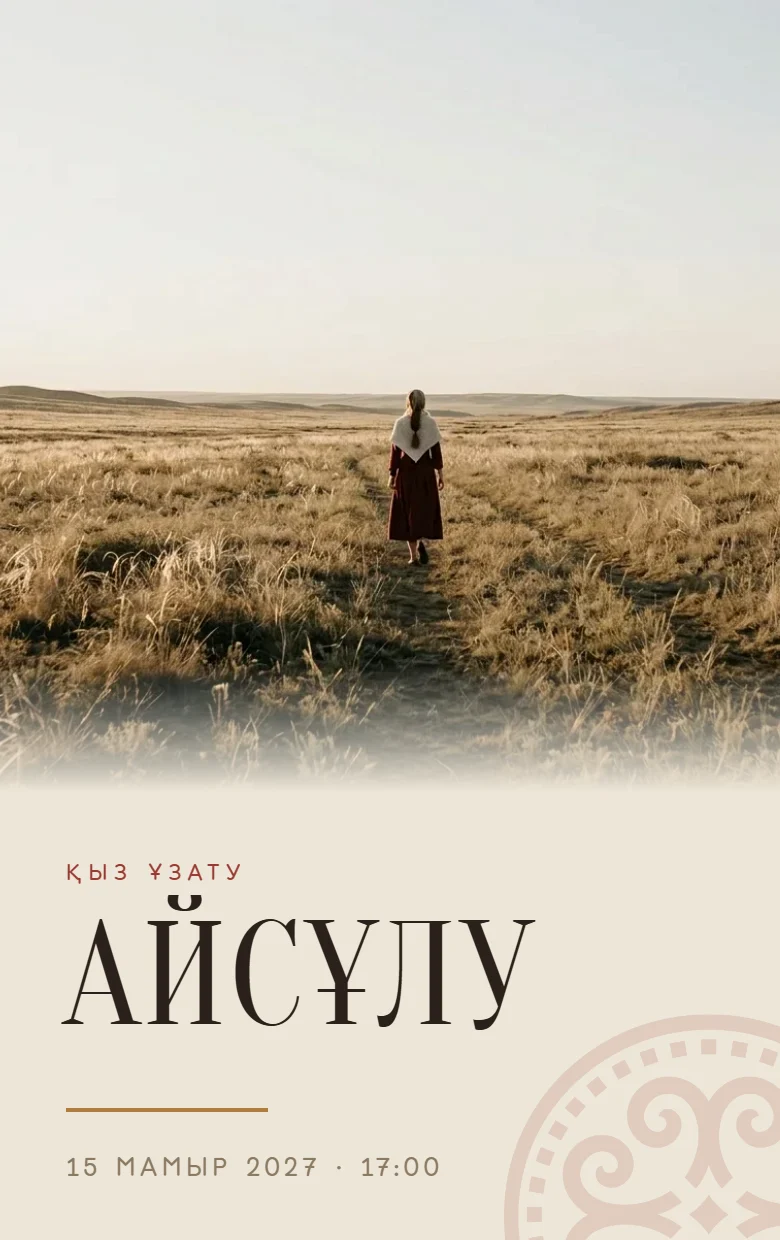
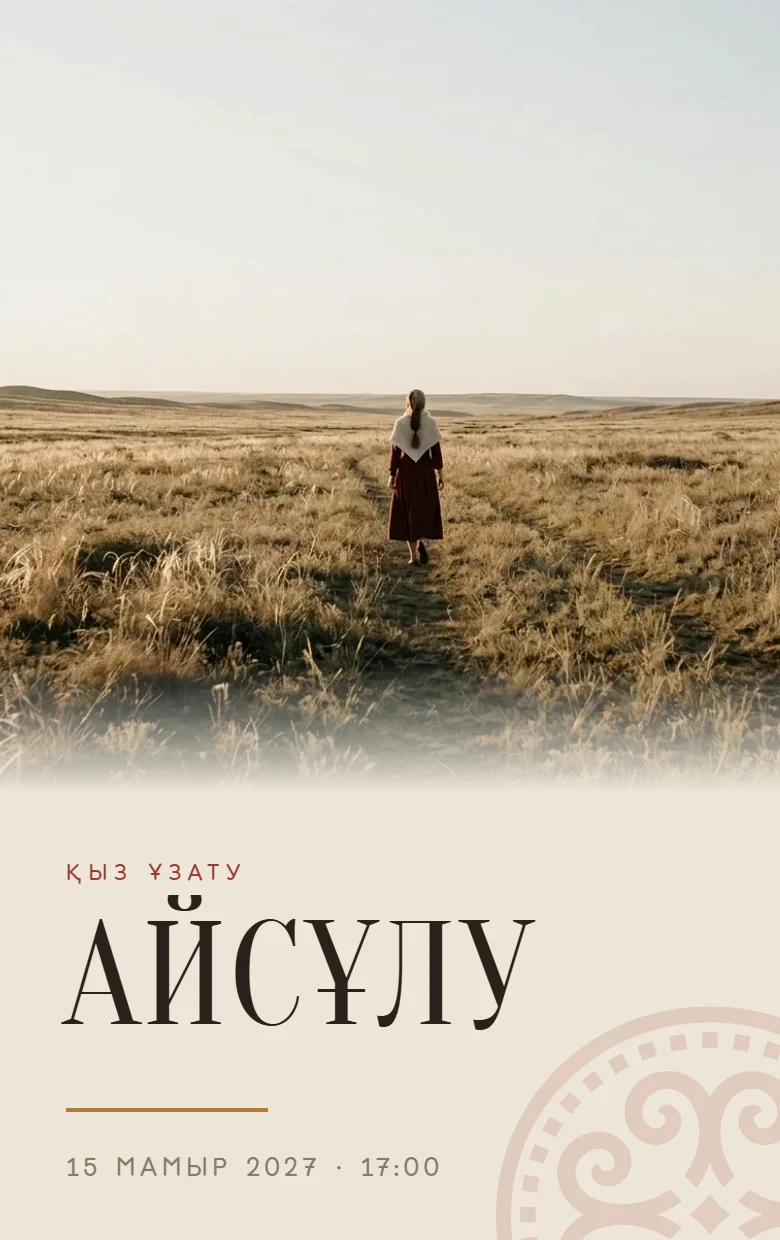
fix(saukele): move the hero type off the dress and into the empty sky
The glow was the wrong instrument on its own. It separates type from a quiet
ground; it cannot separate it from folds and a ribbon, and the block was
standing on both.

Profiled the frame in 20px bands — mean luminance, fifth percentile, and mean
local gradient:

  y 120-275   p05 0.80-0.85   texture 0.005-0.011   empty sky
  y 440-680   p05 0.41-0.67   texture 0.033-0.086   dress, ribbon, drapery

So the eyebrow, the name and the date moved into the band between the blossom
branches and the arch, which is also how the reference set composes: their
heroes keep the top two thirds empty and put the subject in the bottom third.

Measured on the rendered page, worst-case background under the letters:

  caption  6.6:1  ->  11.4:1
  name     8.0:1  ->  11.5:1
  date     no ink at all (it was silver)  ->  11.6:1

The catalogue card was re-rendered from the template, and the illustration is
now whole rather than crossed by three lines of type. 31/31 on the gate.

Changed region(s): [[0.6154, 0.7968, 1.0, 1.0]]

diff --git a/apps/web/src/lib/canvas/template-kit/saukele-builders.ts b/apps/web/src/lib/canvas/template-kit/saukele-builders.ts
@@ -374,12 +374,30 @@ export function saukeleHero(options: { bride?: string } = {}): SectionBuilder {
        * («Қызымыз Аружанды ұзату тойымызға шақырамыз»), so the hero only has
        * to name the occasion.
        */
-      cap(ctx, { kz: 'ҚЫЗ ҰЗАТУ ТОЙЫ', ru: 'ҚЫЗ ҰЗАТУ' }, 452, ctx.theme.ink, true, T.small),
+      /*
+       * The type lives in the sky, not on the dress.
+       *
+       * Measured across the frame in 20px bands: y 120-275 is empty wash —
+       * fifth-percentile luminance 0.80-0.85 and local texture 0.005-0.011.
+       * Where this block used to sit, y 440-680, the same numbers are 0.41-0.67
+       * and 0.033-0.086: six to fifteen times busier, with real dark pixels in
+       * it. No amount of glow wins that; a glow separates type from a quiet
+       * ground, it cannot separate it from folds and a ribbon.
+       *
+       * It is also how the reference set composes: their heroes keep the top
+       * two thirds deliberately empty and put the subject in the bottom third,
+       * with the names in the empty part (design-vocabulary.md §3.20, §3.22).
+       * Ours has the bride full height, so the free field is the band of sky
+       * between the blossom branches and the arch — 155px, which is exactly
+       * what the eyebrow, the name and the date need.
+       */
+      filigree(ctx, 116, 24, 0.85),
+      cap(ctx, { kz: 'ҚЫЗ ҰЗАТУ ТОЙЫ', ru: 'ҚЫЗ ҰЗАТУ' }, 150, ctx.theme.ink, true, T.small),
       {
         type: 'text',
         props: {
           x: 8,
-          y: 500,
+          y: 184,
           w: 84,
           h: 'auto',
           text: options.bride ?? 'Аружан',
@@ -397,12 +415,11 @@ export function saukeleHero(options: { bride?: string } = {}): SectionBuilder {
         },
         animate: { type: 'letters', duration: 2.8, delay: 0.2 },
       },
-      filigree(ctx, 592, 40, 0.8),
       {
         type: 'text',
         props: {
           x: 15,
-          y: 640,
+          y: 254,
           w: 70,
           h: 'auto',
           text: '15 . 05 . 2027',

diff --git a/apps/web/docs/design-vocabulary.md b/apps/web/docs/design-vocabulary.md
@@ -657,3 +657,13 @@ curl -s 'https://tyrasoft.kz/api/v2/page-builder/pages/<builder_page_id>'
    было предложение из четырёх слов при 15 px — и именно длина не давала его
    увеличить: при 18 px строка занимает 352 px против колонки в 312 и
    переносится на имя.
+
+**Сначала место, потом контраст.** Свечение отделяет тип от спокойного фона и
+не отделяет от складок. Если в кадре нет пустого поля там, где стоит текст, —
+двигать текст, а не усиливать тень. Ищется профилем по 20 px: средняя яркость,
+пятый процентиль и локальная текстура (средний модуль градиента). В нашем герое
+полоса y 120–275 — небо между ветками и аркой: пятый процентиль 0,80–0,85 при
+текстуре 0,005–0,011, тогда как на платье, где блок стоял, те же числа
+0,41–0,67 и 0,033–0,086. После переноса худший фон под буквами поднялся с 0,47
+до 0,83, а контраст в худшей точке — с 6,6:1 до 11,4:1.
+
